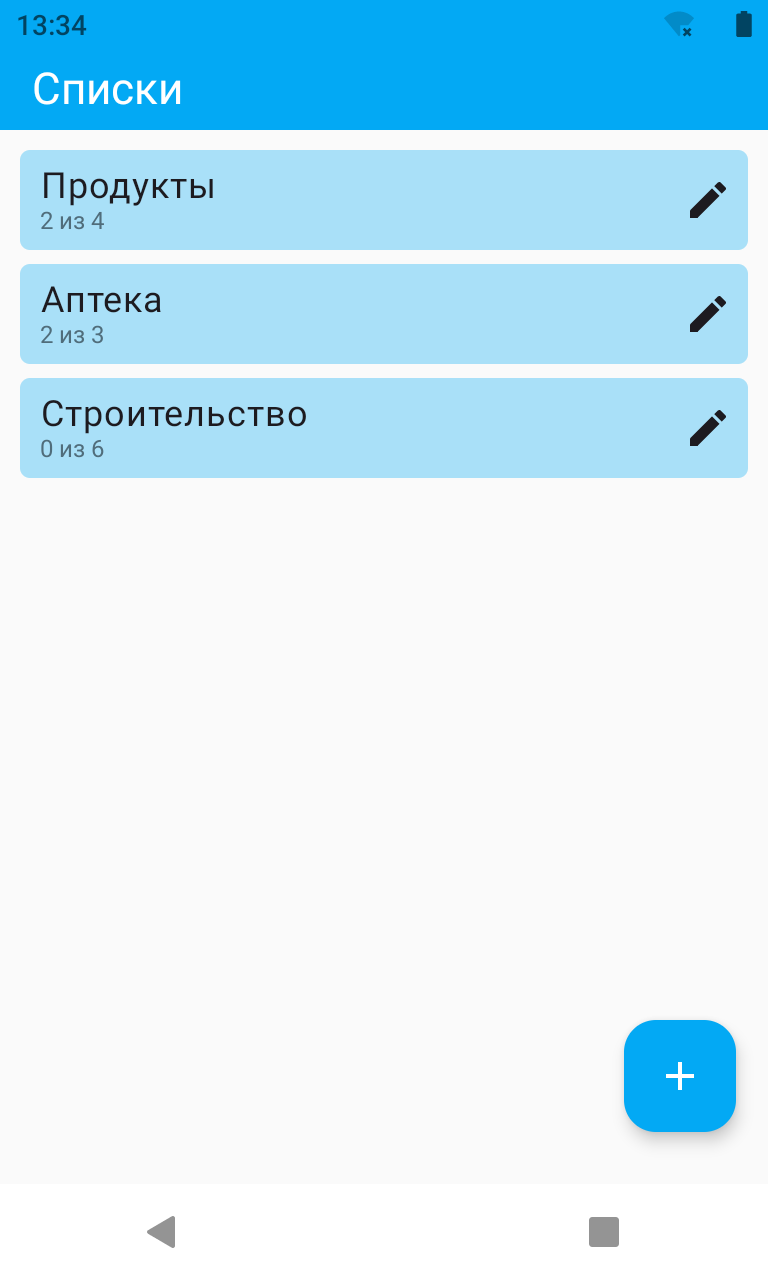
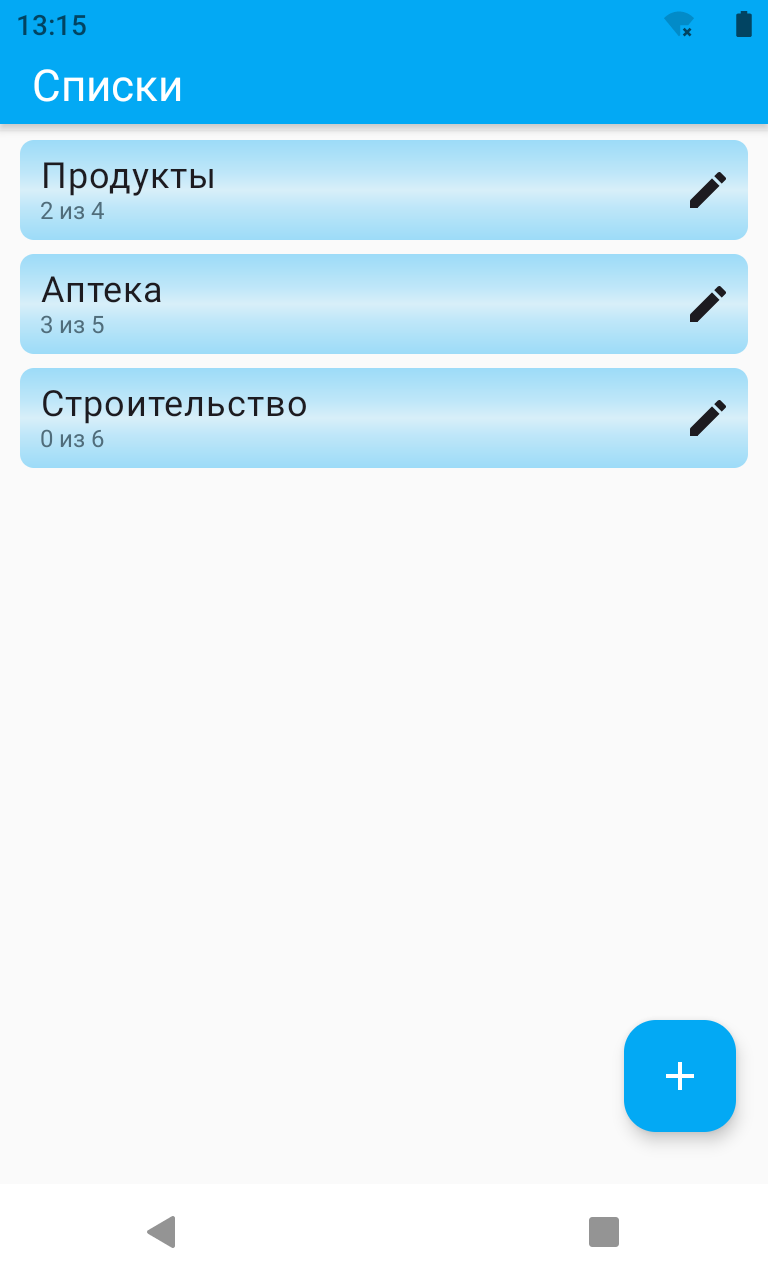
Убрал отрисовку и анимацию перечеркнутой карты - выглядело коряво. Добавил градиент в карту айтема. Добавил bottom shadow для TopAppBar

Changed region(s): [[0.0, 0.0625, 1.0, 0.375], [0.0625, 0.0, 0.125, 0.0312]]

diff --git a/app/src/main/java/alexx/rizz/mytodo/feature/todolist/ui/components/TodoItems.kt b/app/src/main/java/alexx/rizz/mytodo/feature/todolist/ui/components/TodoItems.kt
@@ -5,7 +5,6 @@ import alexx.rizz.mytodo.feature.todolist.TodoListVM.*
 import alexx.rizz.mytodo.feature.todolist.ui.TodoListScreenCommon.RowPadding
 import alexx.rizz.mytodo.ui.*
 import alexx.rizz.mytodo.ui.theme.*
-import androidx.compose.animation.core.*
 import androidx.compose.foundation.interaction.*
 import androidx.compose.foundation.layout.*
 import androidx.compose.foundation.lazy.*
@@ -16,9 +15,8 @@ import androidx.compose.material3.*
 import androidx.compose.runtime.*
 import androidx.compose.ui.*
 import androidx.compose.ui.draw.*
-import androidx.compose.ui.geometry.*
+import androidx.compose.ui.graphics.*
 import androidx.compose.ui.unit.*
-import kotlinx.coroutines.*
 import sh.calvin.reorderable.*
 
 @Composable
@@ -64,33 +62,27 @@ private fun ReorderableCollectionItemScope.ItemRow(
   onDragStopped: () -> Unit,
 ) {
   val interactionSource = remember { MutableInteractionSource() }
-  val colors = CardDefaults.cardColors(
-    containerColor = if (item.isDone) MyColors.DoneCard else MyColors.UndoneCard,
-  )
-  val animatedCrossState = rememberAnimatedCrossState()
-  val animatedCrossScope = rememberCoroutineScope()
+  val containerColor = if (item.isDone) MyColors.DoneCard else Color.Transparent
   Card(
     modifier = Modifier
-      .fillMaxWidth()
-      .makeDraggable(this, interactionSource, haptic, onDragStopped)
-      .conditional(item.isDone, { drawCross(animatedCrossState.line1.value, animatedCrossState.line2.value) }),
+      .makeDraggable(this, interactionSource, haptic, onDragStopped),
     interactionSource = interactionSource,
-    shape = RoundedCornerShape(5.dp),
-    colors = colors,
+    shape = RoundedCornerShape(7.dp),
+    colors = CardDefaults.cardColors(containerColor = containerColor),
     onClick = {},
   ) {
-    Row(
-      Modifier.padding(RowPadding),
-      verticalAlignment = Alignment.CenterVertically,
-    ) {
-      DoneCheckBox(item, onDoneClick = {
-        onDoneClick(it)
-        if (it)
-          animatedCrossScope.launchCrossAnimation(animatedCrossState)
-      })
-      Spacer(Modifier.width(10.dp))
-      ItemText(Modifier.weight(1f), item.text, item.isDone)
-      EditButton(item.isDone, onEditClick)
+    Box(Modifier.conditional(!item.isDone, { drawBackground(MyColors.UndoneGradientColors) })) {
+      Row(
+        Modifier.padding(RowPadding),
+        verticalAlignment = Alignment.CenterVertically,
+      ) {
+        DoneCheckBox(item, onDoneClick = {
+          onDoneClick(it)
+        })
+        Spacer(Modifier.width(10.dp))
+        ItemText(Modifier.weight(1f), item.text, item.isDone)
+        EditButton(item.isDone, onEditClick)
+      }
     }
   }
 }
@@ -118,6 +110,7 @@ private fun ItemText(modifier: Modifier, text: String, isDone: Boolean) {
     text,
     modifier = modifier,
     fontSize = 18.sp,
+    lineHeight = 18.sp,
     color = if (isDone) LocalContentColor.current.copy(alpha = 0.7f) else LocalContentColor.current
   )
 }
@@ -130,60 +123,5 @@ private fun EditButton(isDone: Boolean, onClick: () -> Unit) {
       val tint = editIcon.tintColor.copy(alpha = if (isDone) 0.35f else 1f)
       Icon(editIcon, null, tint = tint)
     }
-  }
-}
-
-private class AnimatedCrossState(
-  val line1: Animatable<Float, AnimationVector1D> = Animatable(1f),
-  val line2: Animatable<Float, AnimationVector1D> = Animatable(1f)
-)
-
-@Composable
-private fun rememberAnimatedCrossState(): AnimatedCrossState =
-  remember { AnimatedCrossState() }
-
-@Composable
-private fun Modifier.drawCross(animatedLine1: Float, animatedLine2: Float): Modifier =
-  drawBehind {
-    val xLeft = 83f
-    val yTop = 10f
-    val xRight = size.width - 20f
-    val yBottom = size.height - yTop
-    val crossColor = MyColors.UndoneCard
-    val strokeWidth = 5f
-    drawLine(
-      crossColor,
-      Offset(xLeft, yTop),
-      Offset(
-        xLeft - (xLeft - xRight) * animatedLine1,
-        yTop - (yTop - yBottom) * animatedLine1
-      ),
-      strokeWidth,
-    )
-    drawLine(
-      crossColor,
-      Offset(xRight, yTop),
-      Offset(
-        xRight - (xRight - xLeft) * animatedLine2,
-        yTop - (yTop - yBottom) * animatedLine2
-      ),
-      strokeWidth,
-    )
-  }
-
-private fun CoroutineScope.launchCrossAnimation(animatedCrossState: AnimatedCrossState) {
-  this.launch {
-    val targetValue = 1f
-    val durationMillis = 250
-    animatedCrossState.line1.snapTo(0f)
-    animatedCrossState.line2.snapTo(0f)
-    animatedCrossState.line1.animateTo(
-      targetValue = targetValue,
-      animationSpec = tween(durationMillis = durationMillis)
-    )
-    animatedCrossState.line2.animateTo(
-      targetValue = targetValue,
-      animationSpec = tween(durationMillis = durationMillis)
-    )
   }
 }

diff --git a/app/src/main/java/alexx/rizz/mytodo/feature/todolist/ui/components/TodoListTopBar.kt b/app/src/main/java/alexx/rizz/mytodo/feature/todolist/ui/components/TodoListTopBar.kt
@@ -1,19 +1,15 @@
 package alexx.rizz.mytodo.feature.todolist.ui.components
 
-import alexx.rizz.mytodo.ui.theme.MyColors
-import androidx.compose.foundation.layout.heightIn
-import androidx.compose.material.icons.Icons
-import androidx.compose.material.icons.automirrored.filled.ArrowBack
-import androidx.compose.material3.ExperimentalMaterial3Api
-import androidx.compose.material3.Icon
-import androidx.compose.material3.IconButton
-import androidx.compose.material3.Text
-import androidx.compose.material3.TopAppBar
-import androidx.compose.material3.TopAppBarDefaults
-import androidx.compose.runtime.Composable
-import androidx.compose.ui.Modifier
-import androidx.compose.ui.graphics.Color
-import androidx.compose.ui.unit.dp
+import alexx.rizz.mytodo.ui.theme.*
+import androidx.compose.foundation.layout.*
+import androidx.compose.material.icons.*
+import androidx.compose.material.icons.automirrored.filled.*
+import androidx.compose.material3.*
+import androidx.compose.runtime.*
+import androidx.compose.ui.*
+import androidx.compose.ui.draw.*
+import androidx.compose.ui.graphics.*
+import androidx.compose.ui.unit.*
 
 @OptIn(ExperimentalMaterial3Api::class)
 @Composable
@@ -23,7 +19,10 @@ fun TodoListTopBar(
   onBack: () -> Unit,
 ) {
   TopAppBar(
-    modifier = Modifier.heightIn(max = 65.dp),
+    modifier = Modifier
+      .heightIn(max = 65.dp)
+      .shadow(3.dp)
+      .padding(bottom = 3.dp),
     navigationIcon = {
       if (isBackVisible)
         IconButton(onBack) { Icon(Icons.AutoMirrored.Filled.ArrowBack, null) }

diff --git a/app/src/main/java/alexx/rizz/mytodo/feature/todolist/ui/components/TodoLists.kt b/app/src/main/java/alexx/rizz/mytodo/feature/todolist/ui/components/TodoLists.kt
@@ -15,6 +15,7 @@ import androidx.compose.material.icons.filled.*
 import androidx.compose.material3.*
 import androidx.compose.runtime.*
 import androidx.compose.ui.*
+import androidx.compose.ui.graphics.*
 import androidx.compose.ui.res.*
 import androidx.compose.ui.text.*
 import androidx.compose.ui.unit.*
@@ -68,19 +69,21 @@ private fun ReorderableCollectionItemScope.ListRow(
       .fillMaxWidth()
       .makeDraggable(this, interactionSource, haptic, onDragStopped),
     interactionSource = interactionSource,
-    shape = RoundedCornerShape(5.dp),
-    colors = CardDefaults.cardColors(containerColor = MyColors.UndoneCard),
+    shape = RoundedCornerShape(7.dp),
+    colors = CardDefaults.cardColors(containerColor = Color.Transparent),
     onClick = { onClick(list.id) },
   ) {
-    Row(
-      Modifier.padding(RowPadding),
-      verticalAlignment = Alignment.CenterVertically,
-    ) {
-      Column(modifier = Modifier.weight(1f)) {
-        ListText(list.text)
-        ItemCountText(list.doneCount, list.itemCount)
+    Box(Modifier.drawBackground(MyColors.UndoneGradientColors)) {
+      Row(
+        Modifier.padding(RowPadding),
+        verticalAlignment = Alignment.CenterVertically,
+      ) {
+        Column(modifier = Modifier.weight(1f)) {
+          ListText(list.text)
+          ItemCountText(list.doneCount, list.itemCount)
+        }
+        EditButton(onClick = { onEditClick(list.id) })
       }
-      EditButton(onClick = { onEditClick(list.id) })
     }
   }
 }

diff --git a/app/src/main/java/alexx/rizz/mytodo/ui/theme/Color.kt b/app/src/main/java/alexx/rizz/mytodo/ui/theme/Color.kt
@@ -8,7 +8,17 @@ object MyColors {
   val Tertiary = Color(0xFF607D8B)
   val Background = Color(0xFFFAFAFA)
 
-  val DoneCard = Primary.copy(alpha = 0.15f)
-  val UndoneCard = Primary.copy(alpha = 0.33f)
+  val DoneCard = Primary.copy(alpha = 0.18f)
+  val UndoneCard = Primary.copy(alpha = 0.38f)
   val SecondaryCardText = Color(0xFF506D7B)
+
+  val UndoneGradientColors = listOf(
+    UndoneCard,
+    UndoneCard.copy(alpha = UndoneCard.alpha - 0.07f),
+    UndoneCard.copy(alpha = UndoneCard.alpha - 0.07f * 2),
+    UndoneCard.copy(alpha = UndoneCard.alpha - 0.07f * 3.5f),
+    UndoneCard.copy(alpha = UndoneCard.alpha - 0.07f * 2),
+    UndoneCard.copy(alpha = UndoneCard.alpha - 0.07f),
+    UndoneCard,
+  )
 }

diff --git a/app/src/main/java/alexx/rizz/mytodo/feature/todolist/ui/components/ItemBackground.kt b/app/src/main/java/alexx/rizz/mytodo/feature/todolist/ui/components/ItemBackground.kt
@@ -1,0 +1,13 @@
+package alexx.rizz.mytodo.feature.todolist.ui.components
+
+import androidx.compose.foundation.*
+import androidx.compose.foundation.shape.*
+import androidx.compose.ui.*
+import androidx.compose.ui.graphics.*
+import androidx.compose.ui.unit.*
+
+fun Modifier.drawBackground(verticalGradientColors: List<Color>): Modifier =
+  this.background(
+    Brush.verticalGradient(verticalGradientColors),
+    RoundedCornerShape(7.dp)
+  )

diff --git a/app/src/main/java/alexx/rizz/mytodo/feature/todolist/ui/components/TodoListSuccess.kt b/app/src/main/java/alexx/rizz/mytodo/feature/todolist/ui/components/TodoListSuccess.kt
@@ -20,7 +20,7 @@ fun TodoListSuccess(
 ) {
   Column(modifier
     .fillMaxSize()
-    .padding(10.dp)
+    .padding(10.dp, 5.dp, 10.dp, 10.dp)
   ) {
     when (screenState) {
       is TodoListScreenState.SuccessLists ->

diff --git a/README.md b/README.md
@@ -18,7 +18,6 @@
 * Sqlite (Room) для хранения данных
 * Unit tests (kotest, mockk, robolectric)
 * Поддержка русского и английского языков
-* Использована кастомная анимация для вычеркивания пункта из списка
 * После перезапуска приложения открывается сразу последний открытый список,
 если таковой был на момент завершения приложения
 * TODO: type-safe compose navigation, main hamburger menu (navigation drawer)
